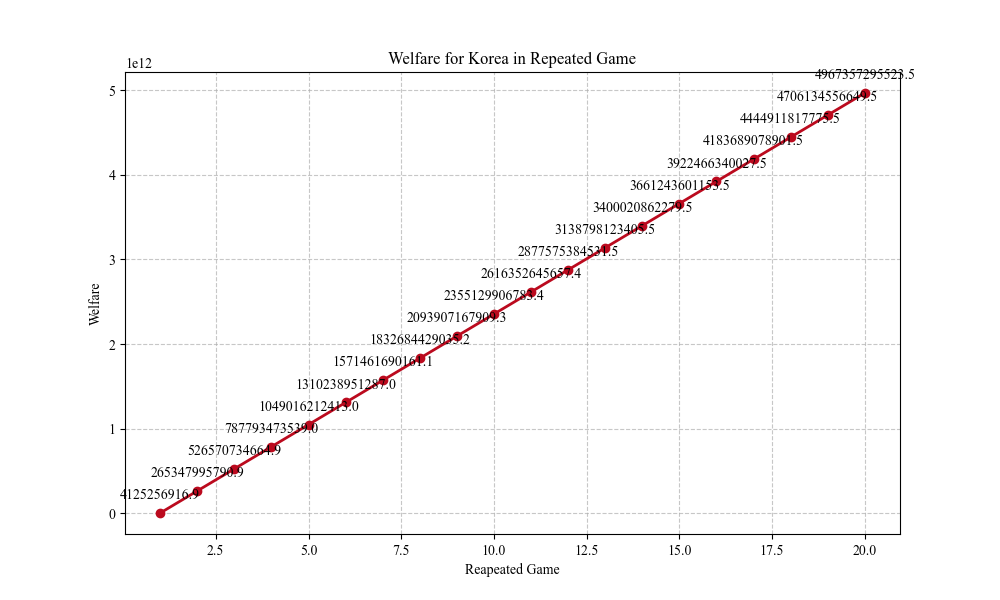
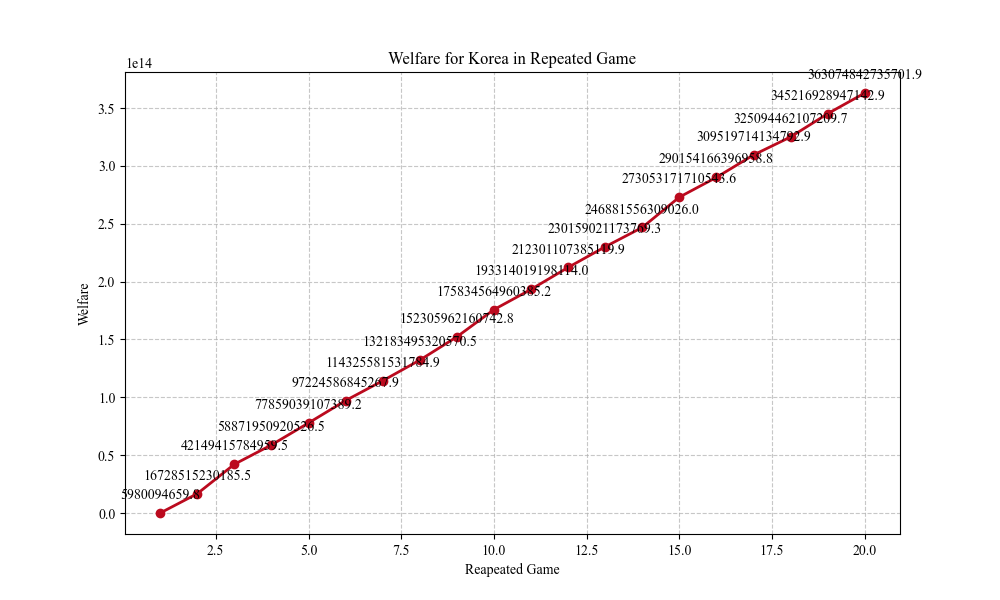
update dynamically code

diff --git a/welfare/update dynamically.py b/welfare/update dynamically.py
@@ -25,14 +25,14 @@ var.fill_gamma()
 var.fill_pi()
 factual_pi = var.pi.copy() #factual var.pi 보존
 
-
 var.fill_alpha()
-def update_economic_variables(tau):
+def update_economic_variables(tau, j):
     # Update t based on the new tau values
-    for i in var.countries:
-        for j in var.countries:
-            if i != j:
-                for industry in var.industries:
+    for i in tau.keys():
+            if i==j: continue
+            for industry in var.industries:
+                    print("print t for", i, j, industry, ":", var.t[i][j][industry])
+                    print("print tau for", i, j, industry, ":",tau[i][j][industry])
                     var.t[i][j][industry] = max(tau[i][j][industry] - 1, 1e-10)
 
     # Recalculate gamma, pi, and alpha based on the updated t values
@@ -66,7 +66,7 @@ def calc_welfare(j, s):
 
 def gov_obj(tau, j):
     # Update economic variables based on the current tau_js
-    update_economic_variables(tau)
+    update_economic_variables(tau, j)
 
     total = 0
     for s in var.industries:
@@ -76,7 +76,6 @@ def gov_obj(tau, j):
 
     return -total  # We minimize, so we return the negative
 
-# Constraint 1 for country j and industry s
 def eq_12(j, s):
     total = 0
     for i in var.countries:
@@ -85,7 +84,6 @@ def eq_12(j, s):
     var.P_hat[j][s] = total
     return var.P_hat[j][s] - total
 
-# Constraint 2 helper functions
 def x2(j):
     total = 0
     for i in var.countries:
@@ -124,7 +122,6 @@ def term3(j):
                 total += (var.pi[j][s] / x2(j) * var.pi_hat[j][s]) * var.alpha[j][i][s] * (abs(var.tau_hat[j][i][s]) ** -var.sigma[s]) * (var.w[i] ** (1 - var.sigma[s])) * (var.P_hat[j][s] ** (var.sigma[s] - 1))
     return total
 
-
 def eq_13(j):
     epsilon = 1e-10
     term1 = wL(j) / (x2(j) + epsilon)
@@ -141,7 +138,6 @@ def eq_13(j):
 
     return term1 + term2 + term3 - aggregated_x
 
-# Constraint 3 for country i and industry s
 def eq_10(i, s):
     total = 0
     for j in var.countries:
@@ -151,44 +147,44 @@ def eq_10(i, s):
     
     return total - var.pi_hat[i][s]
 
-def global_constraints_generator(tau_js):
+def global_constraints_generator(tau):
     cons = []
     
     # Constraint 1: eq_12 for every country j and industry s
     for j in var.countries:
         for s in var.industries:
-            cons.append({'type': 'eq', 'fun': lambda tau_js, j=j, s=s: eq_12(j, s)})
+            cons.append({'type': 'eq', 'fun': lambda tau, j=j, s=s: eq_12(j, s)})
     
     # Constraint 2: eq_13 for every country j
     for j in var.countries:
-        cons.append({'type': 'eq', 'fun': lambda tau_js, j=j: eq_13(j)})
+        cons.append({'type': 'eq', 'fun': lambda tau, j=j: eq_13(j)})
     
     # Constraint 3: eq_10 for every country i and industry s
     for i in var.countries:
         for s in var.industries:
-            cons.append({'type': 'eq', 'fun': lambda tau_js, i=i, s=s: eq_10(i, s)})
+            cons.append({'type': 'eq', 'fun': lambda tau, i=i, s=s: eq_10(i, s)})
     
     return cons
 
 def flatten_dict(tau_dict):
     flat_list = []
-    for i in var.countries:
-        for j in var.countries:
-            if i != j:
-                for industry in var.industries:
-                    flat_list.append(tau_dict[i][j][industry])
+    for i in tau_dict.keys():  # Iterate over all exporter keys
+        for industry in var.industries:  # Iterate over all industries
+            flat_list.append(tau_dict[i][industry])
     return flat_list
 
-def unflatten_dict(flat_list):
-    tau_dict = {i: {j: {industry: 0 for industry in var.industries} for j in var.countries if j != i} for i in var.countries}
-    idx = 0
-    for i in var.countries:
-        for j in var.countries:
-            if i != j:
-                for industry in var.industries:
-                    tau_dict[i][j][industry] = flat_list[idx]
-                    idx += 1
-    return tau_dict
+def unflatten_dict(flat_list, j):
+    unflattened_dict = {}
+    index = 0
+    
+    for i in var.countries:  # Iterate over all exporter keys
+        if i != j:  # Skip the importer itself
+            unflattened_dict[i] = {j: {}}  # Initialize the structure
+            for industry in var.industries:  # Iterate over all industries
+                unflattened_dict[i][j][industry] = flat_list[index]
+                index += 1
+    
+    return unflattened_dict
 
 def welfare_change():
     delta_W_W = {}
@@ -246,42 +242,42 @@ def update_hats(tau, t, pi): #갱신된 값이 인자로 들어감
             var.pi_hat[j][s] = abs(var.pi[j][s] / factual_pi[j][s])
 
 
-def calculate_optimum_tariffs():
-    global tau, t, tariff_matrices
+# def calculate_optimum_tariffs():
+#     global tau, t, tariff_matrices
 
-    # Initialize dictionaries for storing results
-    optimal_taus = {i: {j: {industry: var.tau[i][j][industry] for industry in var.industries} for j in var.countries if j != i} for i in var.countries}
-    gov_obj_values = {i: {j: {industry: 0 for industry in var.industries} for j in var.countries if j != i} for i in var.countries}
+#     # Initialize dictionaries for storing results
+#     optimal_taus = {i: {j: {industry: var.tau[i][j][industry] for industry in var.industries} for j in var.countries if j != i} for i in var.countries}
+#     gov_obj_values = {i: {j: {industry: 0 for industry in var.industries} for j in var.countries if j != i} for i in var.countries}
 
-    # Flatten the tau structure to create an initial guess for the optimizer
-    initial_tau = flatten_dict(optimal_taus)
+#     # Flatten the tau structure to create an initial guess for the optimizer
+#     initial_tau = flatten_dict(optimal_taus)
 
-    # Define the global objective function that operates on the entire tau structure
-    def global_gov_obj(flat_tau):
-        total_obj = 0
-        unflattened_tau = unflatten_dict(flat_tau)  # This reconstructs the tau structure
-        update_economic_variables(unflattened_tau)  # Update t, T, pi, etc. based on the new tau
+#     # Define the global objective function that operates on the entire tau structure
+#     def global_gov_obj(flat_tau):
+#         total_obj = 0
+#         unflattened_tau = unflatten_dict(flat_tau)  # This reconstructs the tau structure
+#         update_economic_variables(unflattened_tau)  # Update t, T, pi, etc. based on the new tau
         
-        for importer in var.countries:
-            total_obj += gov_obj(unflattened_tau, importer)
-        return total_obj
+#         for importer in var.countries:
+#             total_obj += gov_obj(unflattened_tau, importer)
+#         return total_obj
 
-    # Generate global constraints for all countries and industries
-    global_constraints = global_constraints_generator(initial_tau)
+#     # Generate global constraints for all countries and industries
+#     global_constraints = global_constraints_generator(initial_tau)
 
-    # Perform global minimization across all countries and industries
-    result = minimize(global_gov_obj, initial_tau, constraints=global_constraints)
+#     # Perform global minimization across all countries and industries
+#     result = minimize(global_gov_obj, initial_tau) #constraints=global_constraints
     
-    # Map the results back into the optimal_taus structure
-    unflattened_result_tau = unflatten_dict(result.x)
-    for i in var.countries:
-        for j in var.countries:
-            if i != j:
-                for industry in var.industries:
-                    optimal_taus[i][j][industry] = unflattened_result_tau[i][j][industry]
-                    gov_obj_values[i][j][industry] = -result.fun
+#     # Map the results back into the optimal_taus structure
+#     unflattened_result_tau = unflatten_dict(result.x)
+#     for i in var.countries:
+#         for j in var.countries:
+#             if i != j:
+#                 for industry in var.industries:
+#                     optimal_taus[i][j][industry] = unflattened_result_tau[i][j][industry]
+#                     gov_obj_values[i][j][industry] = -result.fun
     
-    return optimal_taus, gov_obj_values
+#     return optimal_taus, gov_obj_values
 
 
 def calculate_p_js(p_ijs):
@@ -313,34 +309,90 @@ def calculate_p_is(p_ijs):
     
     return p_is
 
+def optimize_for_importer(j, var):
+    # Flatten the tau structure for the current importer
+    initial_tau = flatten_dict({
+        {i: {s: var.tau[i][j][s] for s in var.industries}}
+        for i in var.countries if i != j
+    })
+    print("initial_tau for ",j, initial_tau)
+    
+    # Define the local objective function for the importer
+    def importer_gov_obj(flat_tau):
+        unflattened_tau = unflatten_dict(flat_tau, j)
+        update_economic_variables(unflattened_tau, j)
+        return gov_obj(unflattened_tau, j)
+
+    # Perform the optimization for the specific importer
+    result = minimize(
+        importer_gov_obj,          # Local objective function
+        initial_tau,               # Initial guess for tau
+        #constraints=global_constraints_generator(initial_tau)  # Constraints
+    )
+    
+    # Map the results back to the original tau structure
+    optimized_tau = unflatten_dict(result.x, j)
+    for i in var.countries:
+        if i != j:
+            for s in var.industries:
+                var.tau[i][j][s] = optimized_tau[i][j][s]
+
+    for i in var.countries:
+        if i != j:
+            for industry in var.industries:
+                welfare_history[i][j][industry].append(-result.fun)  # Append the welfare value
+    
+    for i in var.countries:
+        if i != j:
+            for industry in var.industries:
+                tariff_history[i][j][industry].append(optimized_tau[i][j][industry])  # Append the welfare value
+
+
+def independent_optimization(var):
+    for iter in range(iteration):  # max_iterations: number of iterations you want to run
+        print(f"Iteration {iter + 1}")
+
+        for j in var.countries:
+            print(f"Optimizing tariffs for imports into country: {j}")
+            optimize_for_importer(j, var)
+        
+        # You may want to include any additional code here that needs to run after each iteration
+
+    return var.tau
 
 iteration = 20
 # Perform 100 iterations
 for iter in range(iteration):
     print(f"Iteration {iter + 1}")
     print(var.tau)
-    new_taus = {i: {j: {industry: 0 for industry in var.industries} for j in var.countries if j != i} for i in var.countries}
-    gov_obj_values = {i: {j: {industry: 0 for industry in var.industries} for j in var.countries if j != i} for i in var.countries}
+    # Initialize history trackers if necessary
+    tariff_history = {i: {j: {industry: [] for industry in var.industries} for j in var.countries if j != i} for i in var.countries}
+    welfare_history = {i: {j: {industry: [] for industry in var.industries} for j in var.countries if j != i} for i in var.countries}
     
-    new_taus, gov_obj_values = calculate_optimum_tariffs()
-
-    #delta값 계산을 위해 기존 값 저장
+    # Iterate over each importing country and optimize
+    for j in var.countries:
+        print(f"Optimizing tariffs for imports into country: {j}")
+        optimize_for_importer(j, var.tau)  # This updates var.tau for the specific importer j
+    
+    # Store the current state of the economic variables
     temp_p = var.p_ijs.copy() 
     temp_T = var.T.copy()
     temp_pi = var.pi.copy()
     temp_p_is = calculate_p_is(var.p_ijs)
     temp_p_js = calculate_p_js(var.p_ijs)
 
-    # Apply new_tau and recalculate the dependent variables
-    update_economic_variables(new_taus)
+    # Update economic variables with the new tau after all optimizations
+    update_economic_variables(var.tau, j)
 
+    # Store tariff and welfare history after optimization
     for i in var.countries:
         for j in var.countries:
             if j != i:
                 for industry in var.industries:
-                    tariff_history[i][j][industry].append(var.tau[i][j][industry])  # Store the tariff value
-                    welfare_history[i][j][industry].append(gov_obj_values[i][j][industry])
+                    tariff_history[i][j][industry].append()  # Store the tariff value
+                    welfare_history[i][j][industry].append()
     
+    # Recalculate p_is and p_js after updating tau
     p_is = calculate_p_is(var.p_ijs)
     p_js = calculate_p_js(var.p_ijs)
 
@@ -381,9 +433,6 @@ for iter in range(iteration):
         print(f"\nTariffs for {i} as the home country:")
         df_tau = pd.DataFrame({j: {s: var.tau[i][j][s] for s in var.industries} for j in var.countries if j != i})
         print(df_tau)
-
-    # Recalculate gamma, var.pi, and alpha with new tau values
-    update_hats(var.tau, var.t, var.pi)
 
 iter_list = list(range(1,iteration+1))
 for exporter in var.countries:
